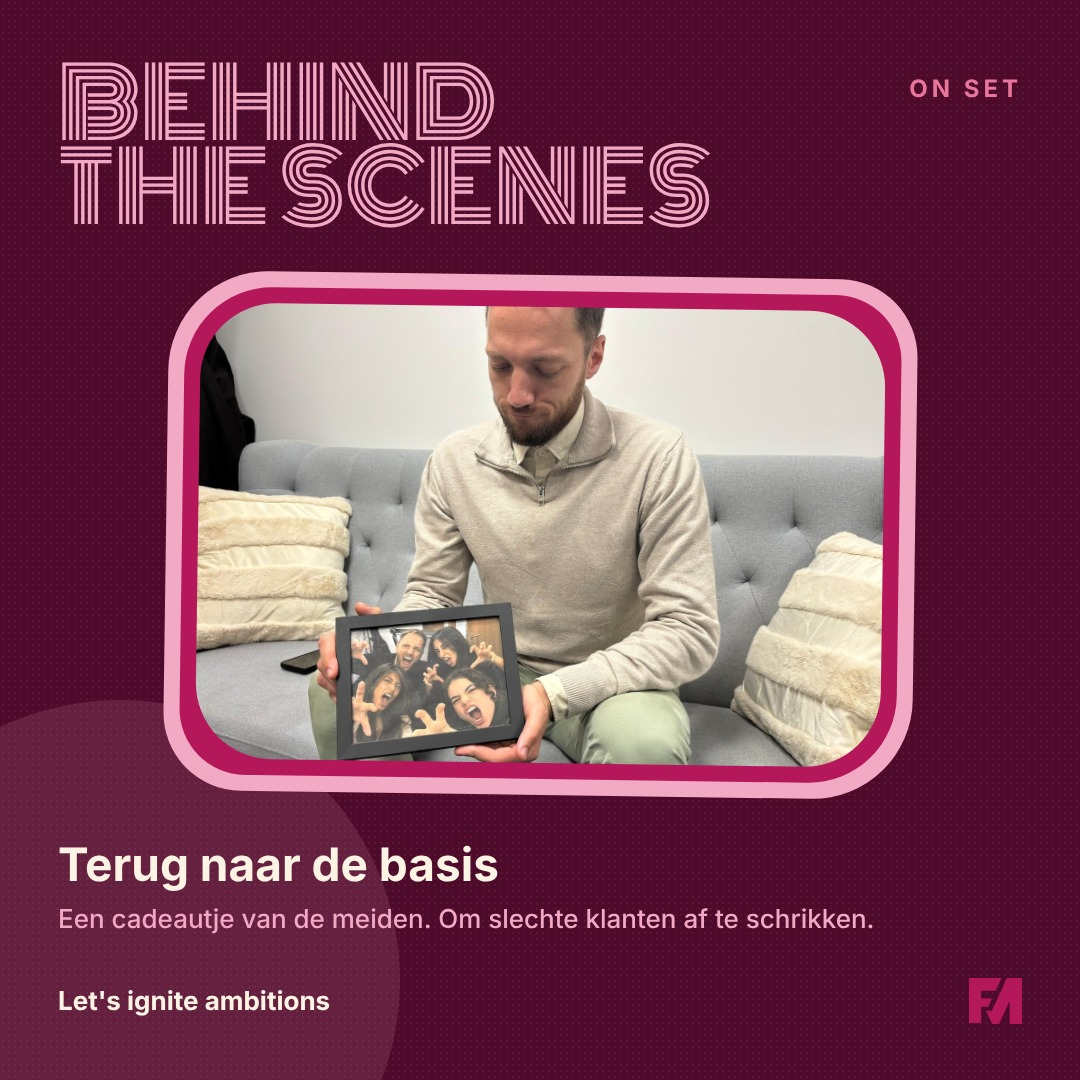
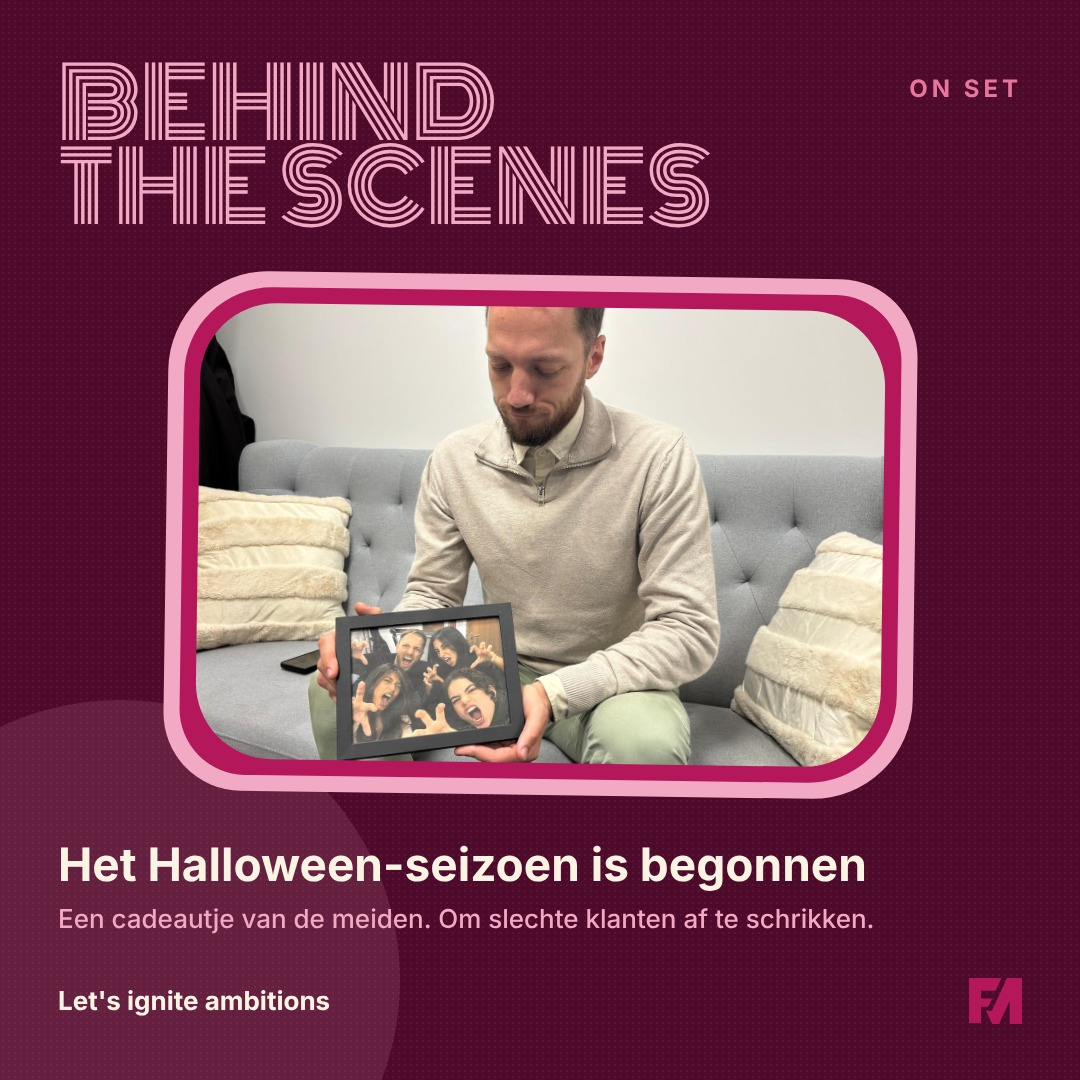
14 okt: titel Het Halloween-seizoen is begonnen
Claude-Session: https://claude.ai/code/session_01BdrNn45ppSGb9d5L34N1QB

Changed region(s): [[0.0306, 0.7639, 0.825, 0.825]]

diff --git a/insight.html b/insight.html
@@ -433,7 +433,7 @@ nav.nav{background:#fff !important;color:#0F0E0C !important;max-width:none !impo
   <div class="ov-groep">
     <div class="ov-artikelen">
     <a class="ov-art" href="insight/google-io-2026-wat-marketeers-moeten-weten"><img src="/assets/insight/google-io-2026-wat-marketeers-moeten-weten.webp" alt="" loading="lazy"><span class="ov-art-b"><span class="ov-art-n">Google I/O 2026: wat marketeers moeten weten</span><span class="ov-art-d">Elke maand gebruiken 2,5 miljard mensen AI Overviews in Google, en AI Mode haalde binnen een jaar 1 miljard gebruikers. Wat…</span></span></a>
-    <a class="ov-art" href="insight/terug-naar-de-basis"><img src="/assets/insight/terug-naar-de-basis.webp" alt="" loading="lazy"><span class="ov-art-b"><span class="ov-art-n">Terug naar de basis</span><span class="ov-art-d">Een cadeautje van de meiden. Om slechte klanten af te schrikken.</span></span></a>
+    <a class="ov-art" href="insight/terug-naar-de-basis"><img src="/assets/insight/terug-naar-de-basis.webp" alt="" loading="lazy"><span class="ov-art-b"><span class="ov-art-n">Het Halloween-seizoen is begonnen</span><span class="ov-art-d">Een cadeautje van de meiden. Om slechte klanten af te schrikken.</span></span></a>
     <a class="ov-art" href="insight/social-media-onderzoek-2026-newcom"><img src="/assets/insight/social-media-onderzoek-2026-newcom.webp" alt="" loading="lazy"><span class="ov-art-b"><span class="ov-art-n">Meer gebruikers, meer twijfel: social media in 2026</span><span class="ov-art-d">14,6 miljoen Nederlanders gebruiken social media, gemiddeld twee uur per dag. Tegelijk wil 5,5 miljoen er minder tijd aan…</span></span></a>
     <a class="ov-art" href="insight/ai-nieuwscrawlers-en-je-merk"><img src="/assets/insight/ai-nieuwscrawlers-en-je-merk.webp" alt="" loading="lazy"><span class="ov-art-b"><span class="ov-art-n">Zou AI ook een krantenabonnement moeten hebben?</span><span class="ov-art-d">AI haalt nieuws op via crawlers, vaak zonder dat de lezer de krant nog bezoekt. Zou AI dan een abonnement moeten hebben op…</span></span></a>
     <a class="ov-art" href="insight/ai-video-in-drie-fasen-personage-beeld-beweging"><img src="/assets/insight/ai-video-in-drie-fasen-personage-beeld-beweging.webp" alt="" loading="lazy"><span class="ov-art-b"><span class="ov-art-n">Van gezicht naar film: AI-video in drie fasen</span><span class="ov-art-d">De meeste mensen gebruiken AI-video in de verkeerde volgorde. Bouw eerst het personage, dan de beelden, dan de beweging — de…</span></span></a>

diff --git a/insight/index.html b/insight/index.html
@@ -448,7 +448,7 @@ body > picture{box-sizing:border-box;}
   <div class="ov-groep">
     <div class="ov-artikelen">
     <a class="ov-art" href="google-io-2026-wat-marketeers-moeten-weten"><img src="/assets/insight/google-io-2026-wat-marketeers-moeten-weten.webp" alt="" loading="lazy"><span class="ov-art-b"><span class="ov-art-n">Google I/O 2026: wat marketeers moeten weten</span><span class="ov-art-d">Elke maand gebruiken 2,5 miljard mensen AI Overviews in Google, en AI Mode haalde binnen een jaar 1 miljard gebruikers. Wat…</span></span></a>
-    <a class="ov-art" href="terug-naar-de-basis"><img src="/assets/insight/terug-naar-de-basis.webp" alt="" loading="lazy"><span class="ov-art-b"><span class="ov-art-n">Terug naar de basis</span><span class="ov-art-d">Een cadeautje van de meiden. Om slechte klanten af te schrikken.</span></span></a>
+    <a class="ov-art" href="terug-naar-de-basis"><img src="/assets/insight/terug-naar-de-basis.webp" alt="" loading="lazy"><span class="ov-art-b"><span class="ov-art-n">Het Halloween-seizoen is begonnen</span><span class="ov-art-d">Een cadeautje van de meiden. Om slechte klanten af te schrikken.</span></span></a>
     <a class="ov-art" href="social-media-onderzoek-2026-newcom"><img src="/assets/insight/social-media-onderzoek-2026-newcom.webp" alt="" loading="lazy"><span class="ov-art-b"><span class="ov-art-n">Meer gebruikers, meer twijfel: social media in 2026</span><span class="ov-art-d">14,6 miljoen Nederlanders gebruiken social media, gemiddeld twee uur per dag. Tegelijk wil 5,5 miljoen er minder tijd aan…</span></span></a>
     <a class="ov-art" href="ai-nieuwscrawlers-en-je-merk"><img src="/assets/insight/ai-nieuwscrawlers-en-je-merk.webp" alt="" loading="lazy"><span class="ov-art-b"><span class="ov-art-n">Zou AI ook een krantenabonnement moeten hebben?</span><span class="ov-art-d">AI haalt nieuws op via crawlers, vaak zonder dat de lezer de krant nog bezoekt. Zou AI dan een abonnement moeten hebben op…</span></span></a>
     <a class="ov-art" href="ai-video-in-drie-fasen-personage-beeld-beweging"><img src="/assets/insight/ai-video-in-drie-fasen-personage-beeld-beweging.webp" alt="" loading="lazy"><span class="ov-art-b"><span class="ov-art-n">Van gezicht naar film: AI-video in drie fasen</span><span class="ov-art-d">De meeste mensen gebruiken AI-video in de verkeerde volgorde. Bouw eerst het personage, dan de beelden, dan de beweging — de…</span></span></a>

diff --git a/insight/terug-naar-de-basis.html b/insight/terug-naar-de-basis.html
@@ -4,9 +4,9 @@
 <meta charset="UTF-8">
 <meta http-equiv="Cache-Control" content="max-age=300, must-revalidate">
 <meta name="viewport" content="width=device-width,initial-scale=1">
-<title>Terug naar de basis | Flii Media</title>
+<title>Het Halloween-seizoen is begonnen | Flii Media</title>
 <meta property="og:type" content="article">
-<meta property="og:title" content="Terug naar de basis">
+<meta property="og:title" content="Het Halloween-seizoen is begonnen">
 <meta property="og:description" content="Een cadeautje van de meiden. Om slechte klanten af te schrikken.">
 <meta property="og:url" content="https://flii.nl/insight/terug-naar-de-basis">
 <meta property="og:site_name" content="Flii Media">
@@ -209,7 +209,7 @@ body > picture{box-sizing:border-box;}
     {
       "@type": "ListItem",
       "position": 3,
-      "name": "Terug naar de basis",
+      "name": "Het Halloween-seizoen is begonnen",
       "item": "https://flii.nl/insight/terug-naar-de-basis"
     }
   ]
@@ -235,11 +235,11 @@ body > picture{box-sizing:border-box;}
     <span class="article-date-lbl">14 oktober 2026</span>
     <span class="article-author">Sten Bossong</span>
   </div>
-  <h1>Terug naar de basis</h1>
+  <h1>Het Halloween-seizoen is begonnen</h1>
   <p class="lead">Een cadeautje van de meiden</p>
   <span class="article-chip article-chip--prompted">prompted</span>
 </div>
-<img decoding="async" fetchpriority="high" src="/assets/insight/terug-naar-de-basis.webp" alt="Terug naar de basis" class="hero-img" loading="eager">
+<img decoding="async" fetchpriority="high" src="/assets/insight/terug-naar-de-basis.webp" alt="Het Halloween-seizoen is begonnen" class="hero-img" loading="eager">
 <div class="section-body">
 <p>Een cadeautje van de meiden. Om slechte klanten af te schrikken.</p>
 </div>

diff --git a/index.html b/index.html
@@ -3460,10 +3460,10 @@ height="0" width="0" style="display:none;visibility:hidden"></iframe></noscript>
 
 <a href="insight/terug-naar-de-basis" class="article">
       <div class="article-img">
-        <img src="/assets/insight/terug-naar-de-basis.webp" alt="Terug naar de basis" style="width:100%;height:200px;object-fit:cover;display:block;flex-shrink:0;" loading="lazy">
+        <img src="/assets/insight/terug-naar-de-basis.webp" alt="Het Halloween-seizoen is begonnen" style="width:100%;height:200px;object-fit:cover;display:block;flex-shrink:0;" loading="lazy">
       </div>
       <div class="article-body"><div class="article-date">14 oktober 2026</div>
-      <div class="article-title">Terug naar de basis</div>
+      <div class="article-title">Het Halloween-seizoen is begonnen</div>
       <div class="article-chip article-chip--prompted">prompted</div></div>
     </a>
 
